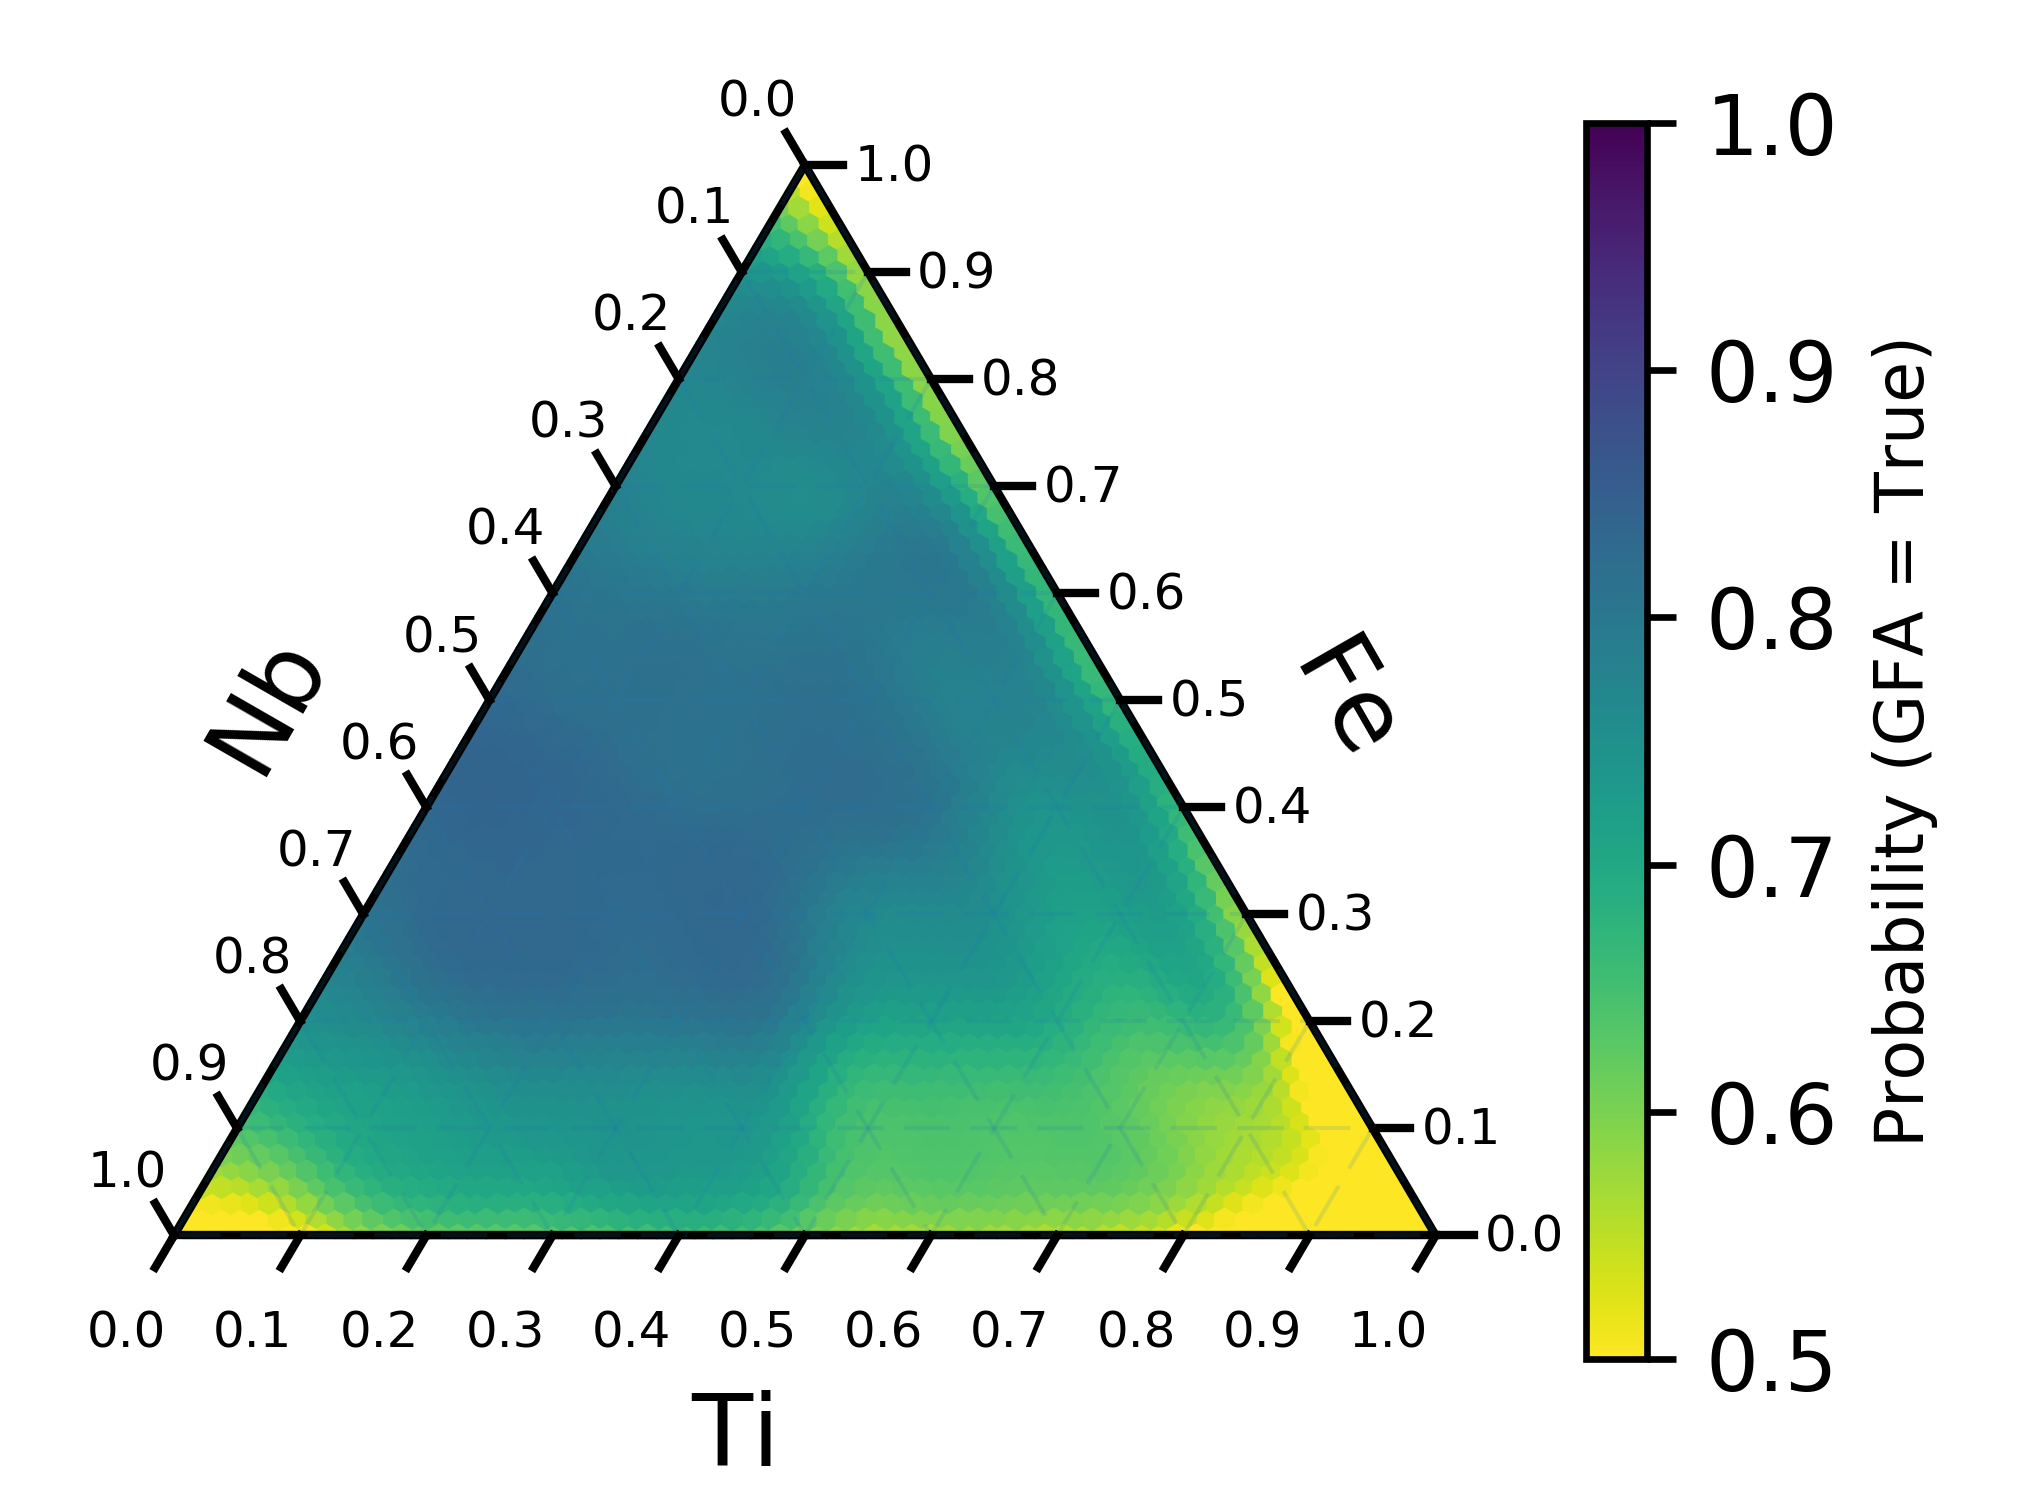
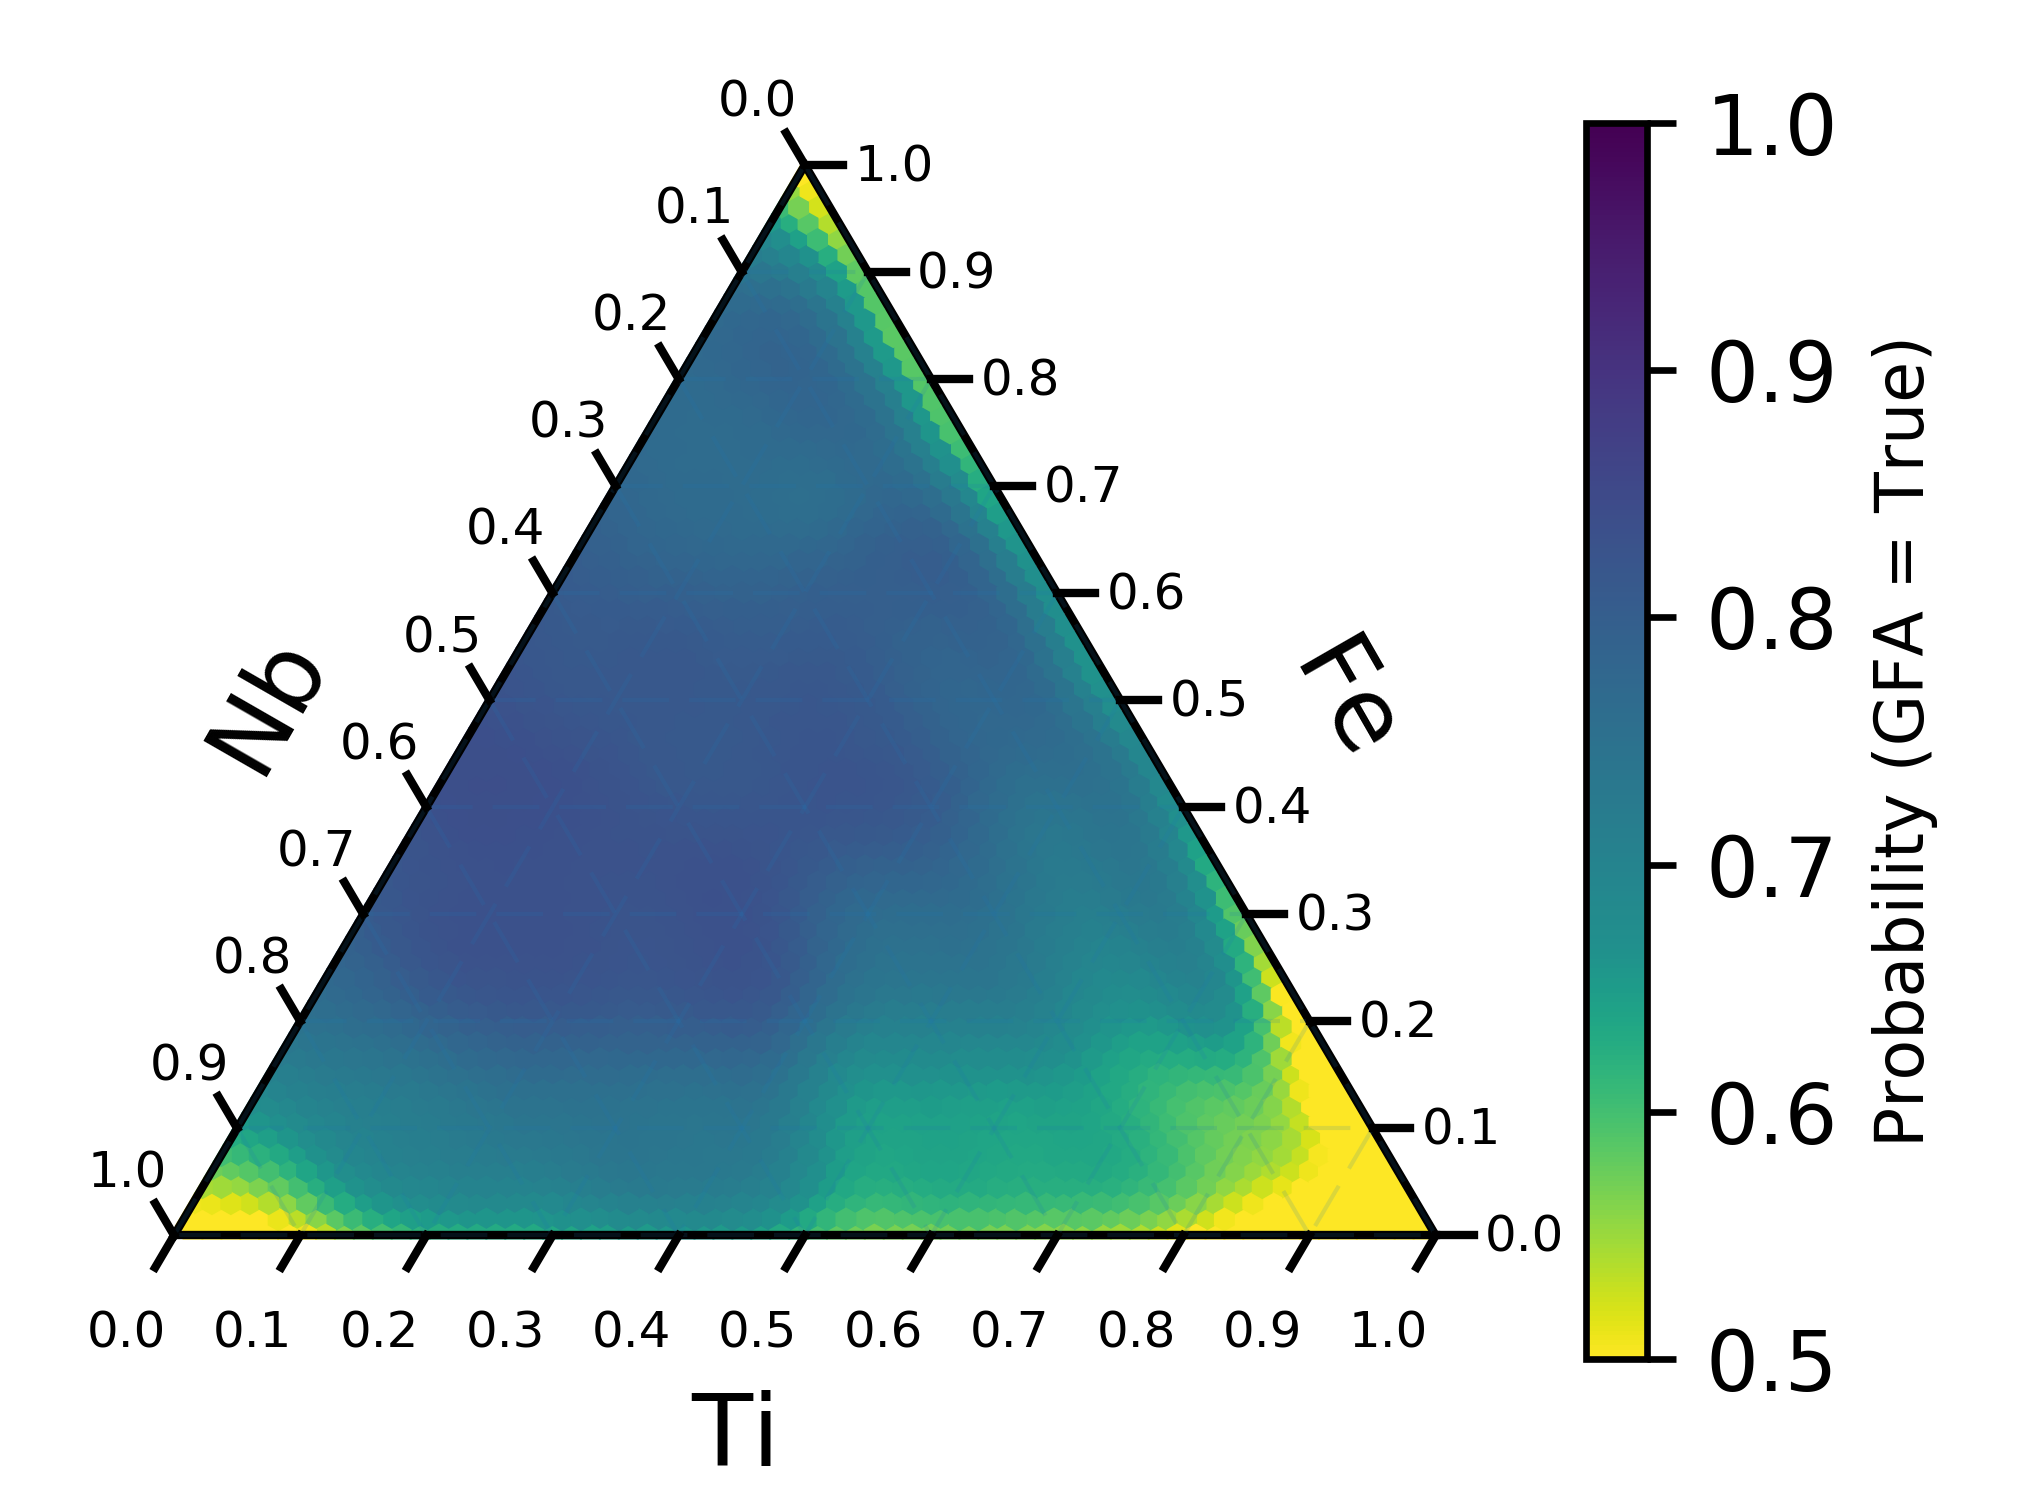
Uploaded Figure 5 plotter

Changed region(s): [[0.0926, 0.1227, 0.6485, 0.828], [0.7721, 0.3987, 0.8029, 0.8587]]

diff --git a/scripts/figure_plotters/Figure5_model_improvement.py b/scripts/figure_plotters/Figure5_model_improvement.py
@@ -11,7 +11,7 @@ import matplotlib.pyplot as plt
 import imp
 from scipy import interpolate
 
-plotTernary = imp.load_source("plt_ternary_save", "plotTernary.py")
+plotTernary = imp.load_source("plt_ternary_save", "plotTernary_cb.py")
 
 
 path = '..//..//data//ML_prediction//'
@@ -20,8 +20,8 @@ save_path = '..//..//figures//'
 
 alloy = 'FeTiNb'
 
-# # to switch to CoVZr alloy, uncomment the line below
-# alloy = 'Co VZr'
+# to switch to CoVZr alloy, uncomment the line below
+alloy = 'Co VZr'
 
 
 filename_new = path + 'new-glasses_' + alloy + '.csv'
@@ -88,38 +88,19 @@ for i in metal1_range:
             except(ValueError):
                 continue
 
-# for FeTiNb
-ternary_data = np.concatenate(([metal1],[metal2],[metal3],[probability_interpolate_old]), axis = 0)
-ternary_data = np.transpose(ternary_data)
-
-plotTernary.plt_ternary_save(ternary_data, tertitle='',  labelNames=(alloy[0:2], alloy[2:4], alloy[4:6]), scale=100,
-                       sv=True, svpth=save_path, svflnm= 'Figure5c.png',
-                       cbl='Probability (GFA = True)', vmin = 0.5, vmax = 1, cmap='viridis_r', cb=True, style='h')
-
-ternary_data = np.concatenate(([metal1],[metal2],[metal3],[probability_interpolate_new]), axis = 0)
-ternary_data = np.transpose(ternary_data)
-
-plotTernary.plt_ternary_save(ternary_data, tertitle='',  labelNames=(alloy[0:2], alloy[2:4], alloy[4:6]), scale=100,
-                       sv=True, svpth=save_path, svflnm='Figure5d.png',
-                       cbl='Probability (GFA = True)', vmin = 0.5, vmax = 1, cmap='viridis_r', cb=True, style='h')
-
-probability_interpolate_new = np.array(probability_interpolate_new)
-probability_interpolate_old = np.array(probability_interpolate_old)
-ternary_data = np.concatenate(([metal1],[metal2],[metal3],[probability_interpolate_new-probability_interpolate_old]), axis = 0)
-ternary_data = np.transpose(ternary_data)
-
-plotTernary.plt_ternary_save(ternary_data, tertitle='',  labelNames=(alloy[0:2], alloy[2:4], alloy[4:6]), scale=100,
-                       sv=True, svpth=save_path, svflnm='Figure5e.png',
-                       cbl='Probability difference', vmax = 0.35, vmin = -0.35, cmap='BrBG', cb=True, style='h')
-
-
-
-# # for CoVZr
+# # for FeTiNb
+# ternary_data = np.concatenate(([metal1],[metal2],[metal3],[probability_interpolate_old]), axis = 0)
+# ternary_data = np.transpose(ternary_data)
+#
+# plotTernary.plt_ternary_save(ternary_data, tertitle='',  labelNames=(alloy[0:2], alloy[2:4], alloy[4:6]), scale=100,
+#                        sv=True, svpth=save_path, svflnm= 'Figure5c.png',
+#                        cbl='Probability (GFA = True)', vmin = 0.5, vmax = 1, cmap='viridis_r', cb=True, style='h')
+#
 # ternary_data = np.concatenate(([metal1],[metal2],[metal3],[probability_interpolate_new]), axis = 0)
 # ternary_data = np.transpose(ternary_data)
 #
 # plotTernary.plt_ternary_save(ternary_data, tertitle='',  labelNames=(alloy[0:2], alloy[2:4], alloy[4:6]), scale=100,
-#                        sv=True, svpth=save_path, svflnm='Figure5a.png',
+#                        sv=True, svpth=save_path, svflnm='Figure5d.png',
 #                        cbl='Probability (GFA = True)', vmin = 0.5, vmax = 1, cmap='viridis_r', cb=True, style='h')
 #
 # probability_interpolate_new = np.array(probability_interpolate_new)
@@ -127,12 +108,32 @@ plotTernary.plt_ternary_save(ternary_data, tertitle='',  labelNames=(alloy[0:2],
 # ternary_data = np.concatenate(([metal1],[metal2],[metal3],[probability_interpolate_new-probability_interpolate_old]), axis = 0)
 # ternary_data = np.transpose(ternary_data)
 #
-#
-#
+# print np.max(probability_interpolate_new-probability_interpolate_old), np.min(probability_interpolate_new-probability_interpolate_old)
 #
 # plotTernary.plt_ternary_save(ternary_data, tertitle='',  labelNames=(alloy[0:2], alloy[2:4], alloy[4:6]), scale=100,
-#                        sv=True, svpth=save_path, svflnm='Figure5b.png',
-#                        cbl='Probability difference', vmin = -0.8, vmax = 0.8, cmap='BrBG', cb=True, style='h')
+#                        sv=True, svpth=save_path, svflnm='Figure5e.png',
+#                        cbl='Probability difference', vmax = 0.09, vmin = -0.35, cmap='BrBG', cb=True, style='h')
+
+
+
+# for CoVZr
+ternary_data = np.concatenate(([metal1],[metal2],[metal3],[probability_interpolate_new]), axis = 0)
+ternary_data = np.transpose(ternary_data)
+
+plotTernary.plt_ternary_save(ternary_data, tertitle='',  labelNames=(alloy[0:2], alloy[2:4], alloy[4:6]), scale=100,
+                       sv=True, svpth=save_path, svflnm='Figure5a.png',
+                       cbl='Probability (GFA = True)', vmin = 0.5, vmax = 1, cmap='viridis_r', cb=True, style='h')
+
+probability_interpolate_new = np.array(probability_interpolate_new)
+probability_interpolate_old = np.array(probability_interpolate_old)
+ternary_data = np.concatenate(([metal1],[metal2],[metal3],[probability_interpolate_new-probability_interpolate_old]), axis = 0)
+ternary_data = np.transpose(ternary_data)
+
+print np.max(probability_interpolate_new-probability_interpolate_old), np.min(probability_interpolate_new-probability_interpolate_old)
+
+plotTernary.plt_ternary_save(ternary_data, tertitle='',  labelNames=(alloy[0:2], alloy[2:4], alloy[4:6]), scale=100,
+                       sv=True, svpth=save_path, svflnm='Figure5b.png',
+                       cbl='Probability difference', vmin = -0.87, vmax = 0.43, cmap='BrBG', cb=True, style='h')
 
 
 

diff --git a/scripts/figure_plotters/plotTernary_cb.py b/scripts/figure_plotters/plotTernary_cb.py
@@ -5,10 +5,59 @@ __author__ = "Travis Williams"
 
 import matplotlib.pyplot as plt
 import numpy as np
-
+import matplotlib
 from scripts.figure_plotters import ternary
 
+def shiftedColorMap(cmap, start=0.0, midpoint=0.5, stop=1.0, name=''):
+    '''
+    Function to offset the "center" of a colormap. Useful for
+    data with a negative min and positive max and you want the
+    middle of the colormap's dynamic range to be at zero
 
+    Input
+    -----
+      cmap : The matplotlib colormap to be altered
+      start : Offset from lowest point in the colormap's range.
+          Defaults to 0.0 (no lower ofset). Should be between
+          0.0 and `midpoint`.
+      midpoint : The new center of the colormap. Defaults to 
+          0.5 (no shift). Should be between 0.0 and 1.0. In
+          general, this should be  1 - vmax/(vmax + abs(vmin))
+          For example if your data range from -15.0 to +5.0 and
+          you want the center of the colormap at 0.0, `midpoint`
+          should be set to  1 - 5/(5 + 15)) or 0.75
+      stop : Offset from highets point in the colormap's range.
+          Defaults to 1.0 (no upper ofset). Should be between
+          `midpoint` and 1.0.
+    '''
+    cdict = {
+        'red': [],
+        'green': [],
+        'blue': [],
+        'alpha': []
+    }
+
+    # regular index to compute the colors
+    reg_index = np.linspace(start, stop, 257)
+
+    # shifted index to match the data
+    shift_index = np.hstack([
+        np.linspace(0.0, midpoint, 128, endpoint=False),
+        np.linspace(midpoint, 1.0, 129, endpoint=True)
+    ])
+
+    for ri, si in zip(reg_index, shift_index):
+        r, g, b, a = cmap(ri)
+
+        cdict['red'].append((si, r, r))
+        cdict['green'].append((si, g, g))
+        cdict['blue'].append((si, b, b))
+        cdict['alpha'].append((si, a, a))
+
+    newcmap = matplotlib.colors.LinearSegmentedColormap(name, cdict)
+    plt.register_cmap(cmap=newcmap)
+
+    return newcmap
 
 
 def plt_ternary_save(data, tertitle='',  labelNames=('Species A','Species B','Species C'), scale=100,
@@ -78,8 +127,12 @@ def plt_ternary_save(data, tertitle='',  labelNames=('Species A','Species B','Sp
     tax.left_axis_label(labelNames[2], offset=0.17, **font)
     tax.right_axis_label(labelNames[0], offset=0.17, **font)
 
+    modified_cmap = shiftedColorMap(matplotlib.cm.get_cmap(cmap), start=0, midpoint=1 - vmax / (vmax + abs(vmin)),
+                                    stop=1)
+
+
     # Plot data, boundary, gridlines, and ticks
-    tax.heatmap(d, style=style, cmap=cmap, cbarlabel=cbl, vmin=vmin, vmax=vmax, colorbar=cb)
+    tax.heatmap(d, style=style, cmap=modified_cmap, cbarlabel=cbl, vmin=vmin, vmax=vmax, colorbar=cb)
     tax.boundary(linewidth=1)
     tax.gridlines(multiple=10, linewidth=lnwdth, alpha=alpha, linestyle=lnsty)
     ticks = [round(i / float(scale), 1) for i in range(0, scale+1, 10)]
